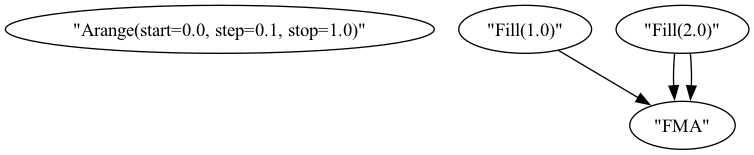
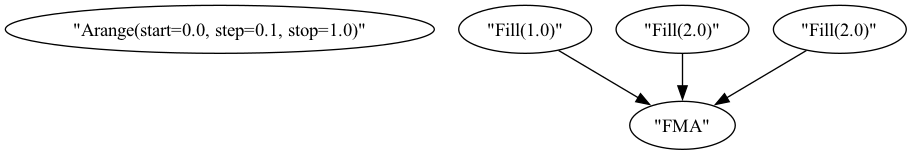
Automatic inplacing for binops

diff --git a/constensor-core/src/graph.rs b/constensor-core/src/graph.rs
@@ -1,5 +1,6 @@
 use std::{
     cell::Cell,
+    collections::HashMap,
     env,
     fmt::Display,
     fs,
@@ -72,10 +73,13 @@ impl<T: DType> Graph<T> {
                             )
                         }
                         Op::BinaryOp { operator, .. } => format!("BinOp({})", operator.as_c_op()),
+                        Op::InplaceBinaryOp { operator, .. } => {
+                            format!("InplaceBinOp({})", operator.as_c_op())
+                        }
                         Op::UnaryOp { operator, .. } => format!("UnOp({:?})", operator),
                         Op::FusedMulAdd { .. } => "FMA".to_string(),
                         // we already matched NoOp above
-                        _ => unreachable!(),
+                        Op::NoOp => unreachable!(),
                     };
                     let node = g.add_node(label);
                     idx_map.push(Some(node));
@@ -99,6 +103,14 @@ impl<T: DType> Graph<T> {
                         g.add_edge(src, dst, ());
                     }
                 }
+                Op::InplaceBinaryOp { l_id, r_id, .. } => {
+                    if let Some(src) = idx_map[usize::from(l_id)] {
+                        g.add_edge(src, dst, ());
+                    }
+                    if let Some(src) = idx_map[usize::from(r_id)] {
+                        g.add_edge(src, dst, ());
+                    }
+                }
                 Op::UnaryOp { v_id, .. } => {
                     if let Some(src) = idx_map[usize::from(v_id)] {
                         g.add_edge(src, dst, ());
@@ -112,7 +124,7 @@ impl<T: DType> Graph<T> {
                     }
                 }
                 // NoOp and Fill/Arange don’t create incoming edges
-                _ => {}
+                Op::NoOp | Op::Fill { .. } | Op::Arange { .. } => {}
             }
         }
 
@@ -202,6 +214,12 @@ impl<T: DType> Graph<T> {
                                     r_id,
                                     operator: _,
                                 } => vec![l_id, r_id],
+                                Op::InplaceBinaryOp {
+                                    l_id,
+                                    r_id,
+                                    out: _,
+                                    operator: _,
+                                } => vec![l_id, r_id],
                                 Op::Fill { v: _ } => vec![],
                                 Op::UnaryOp { v_id, operator: _ } => vec![v_id],
                                 Op::FusedMulAdd { a_id, b_id, c_id } => {
@@ -233,12 +251,111 @@ impl<T: DType> Graph<T> {
         *self.data.write().unwrap() = filtered_ops;
     }
 
+    /// Optimize by inplacing binary operations when inputs are not reused.
+    fn optimize_inplace_bin(&mut self) {
+        let ops = self.data.write().unwrap().clone();
+        let mut new_ops = ops.clone();
+        // Count how often each tensor id is used as an input.
+        let mut usage: HashMap<usize, usize> = HashMap::new();
+        for op in ops.iter() {
+            match op {
+                Op::BinaryOp { l_id, r_id, .. } => {
+                    *usage.entry(usize::from(l_id)).or_default() += 1;
+                    *usage.entry(usize::from(r_id)).or_default() += 1;
+                }
+                Op::InplaceBinaryOp { l_id, r_id, .. } => {
+                    *usage.entry(usize::from(l_id)).or_default() += 1;
+                    *usage.entry(usize::from(r_id)).or_default() += 1;
+                }
+                Op::UnaryOp { v_id, .. } => {
+                    *usage.entry(usize::from(v_id)).or_default() += 1;
+                }
+                Op::FusedMulAdd { a_id, b_id, c_id } => {
+                    *usage.entry(usize::from(a_id)).or_default() += 1;
+                    *usage.entry(usize::from(b_id)).or_default() += 1;
+                    *usage.entry(usize::from(c_id)).or_default() += 1;
+                }
+                Op::NoOp | Op::Fill { .. } | Op::Arange { .. } => {}
+            }
+        }
+        // Transform eligible BinaryOps into InplaceBinaryOps.
+        for (i, op) in ops.iter().enumerate() {
+            if let Op::BinaryOp {
+                l_id,
+                r_id,
+                operator,
+            } = op
+            {
+                let l_idx = usize::from(l_id);
+                let r_idx = usize::from(r_id);
+                let l_use = usage.get(&l_idx).copied().unwrap_or(0);
+                let r_use = usage.get(&r_idx).copied().unwrap_or(0);
+                if l_use == 1 || r_use == 1 {
+                    // Choose target for in-place: if both, default to lhs.
+                    let target = if r_use > l_use {
+                        r_id.clone()
+                    } else {
+                        l_id.clone()
+                    };
+                    // Replace with InplaceBinaryOp
+                    new_ops[i] = Op::InplaceBinaryOp {
+                        out: target.clone(),
+                        l_id: l_id.clone(),
+                        r_id: r_id.clone(),
+                        operator: *operator,
+                    };
+                    // Update all future uses of this op's result (index i) to use 'target'.
+                    for fut in new_ops.iter_mut().skip(i + 1) {
+                        match fut {
+                            Op::BinaryOp { l_id, r_id, .. } => {
+                                if usize::from(&*l_id) == i {
+                                    l_id.0.set(usize::from(&target));
+                                }
+                                if usize::from(&*r_id) == i {
+                                    r_id.0.set(usize::from(&target));
+                                }
+                            }
+                            Op::InplaceBinaryOp { l_id, r_id, .. } => {
+                                if usize::from(&*l_id) == i {
+                                    l_id.0.set(usize::from(&target));
+                                }
+                                if usize::from(&*r_id) == i {
+                                    r_id.0.set(usize::from(&target));
+                                }
+                            }
+                            Op::UnaryOp { v_id, .. } => {
+                                if usize::from(&*v_id) == i {
+                                    v_id.0.set(usize::from(&target));
+                                }
+                            }
+                            Op::FusedMulAdd { a_id, b_id, c_id } => {
+                                if usize::from(&*a_id) == i {
+                                    a_id.0.set(usize::from(&target));
+                                }
+                                if usize::from(&*b_id) == i {
+                                    b_id.0.set(usize::from(&target));
+                                }
+                                if usize::from(&*c_id) == i {
+                                    c_id.0.set(usize::from(&target));
+                                }
+                            }
+                            Op::NoOp | Op::Fill { .. } | Op::Arange { .. } => {}
+                        }
+                    }
+                }
+            }
+        }
+        // Commit the transformed op list.
+        *self.data.write().unwrap() = new_ops;
+    }
+
     /// Optimize this graph.
     ///
     /// Apply the following optimizations
     /// - Fuse mul,add
     pub fn optimize(&mut self) {
         self.optimize_fma();
+        self.optimize_inplace_bin();
     }
 }
 
@@ -303,6 +420,12 @@ pub enum Op<T: DType> {
         stop: T,
     },
     BinaryOp {
+        l_id: GraphTensorId,
+        r_id: GraphTensorId,
+        operator: BinaryOpType,
+    },
+    InplaceBinaryOp {
+        out: GraphTensorId,
         l_id: GraphTensorId,
         r_id: GraphTensorId,
         operator: BinaryOpType,

diff --git a/constensor-core/src/dtype.rs b/constensor-core/src/dtype.rs
@@ -230,6 +230,14 @@ pub trait SimdSupported {
     where
         Self: Sized;
 
+    fn binary_simd_op_inplace_lhs(a: &mut [Self], b: &[Self], op: BinaryOpType)
+    where
+        Self: Sized;
+
+    fn binary_simd_op_inplace_rhs(a: &[Self], b: &mut [Self], op: BinaryOpType)
+    where
+        Self: Sized;
+
     fn fma_op(a: &[Self], b: &[Self], c: &[Self], out: &mut Vec<Self>)
     where
         Self: Sized;
@@ -274,6 +282,86 @@ macro_rules! simd_supported {
             // Scalar fallback for remainder
             for i in n_blocks * Self::BLOCK_SIZE..len {
                 out[i] = scalar_op(a[i], b[i]);
+            }
+        }
+
+        fn binary_simd_op_inplace_lhs(a: &mut [Self], b: &[Self], op: BinaryOpType)
+        where
+            Self: Sized,
+        {
+            let len = a.len();
+            let n_blocks = len / Self::BLOCK_SIZE;
+
+            // Define SIMD and scalar operations based on the chosen operation
+            let simd_op = |l: std::simd::Simd<$t, { Self::BLOCK_SIZE }>,
+                           r: std::simd::Simd<$t, { Self::BLOCK_SIZE }>| {
+                match op {
+                    BinaryOpType::Add => l + r,
+                    BinaryOpType::Mul => l * r,
+                    BinaryOpType::Sub => l - r,
+                    BinaryOpType::Div => l / r,
+                }
+            };
+            let scalar_op = |l: Self, r: Self| {
+                match op {
+                    BinaryOpType::Add => l + r,
+                    BinaryOpType::Mul => l * r,
+                    BinaryOpType::Sub => l - r,
+                    BinaryOpType::Div => l / r,
+                }
+            };
+
+            // Vectorized loop
+            for i in 0..n_blocks {
+                let off = i * Self::BLOCK_SIZE;
+                let l_chunk = std::simd::Simd::<$t, { Self::BLOCK_SIZE }>::from_slice(&a[off..off + Self::BLOCK_SIZE]);
+                let r_chunk = std::simd::Simd::<$t, { Self::BLOCK_SIZE }>::from_slice(&b[off..off + Self::BLOCK_SIZE]);
+                let res = simd_op(l_chunk, r_chunk);
+                a[off..(off + Self::BLOCK_SIZE).min(len)].copy_from_slice(res.as_array());
+            }
+            // Scalar fallback for remainder
+            for i in n_blocks * Self::BLOCK_SIZE..len {
+                a[i] = scalar_op(a[i], b[i]);
+            }
+        }
+
+        fn binary_simd_op_inplace_rhs(a: &[Self], b: &mut [Self], op: BinaryOpType)
+        where
+            Self: Sized,
+        {
+            let len = a.len();
+            let n_blocks = len / Self::BLOCK_SIZE;
+
+            // Define SIMD and scalar operations based on the chosen operation
+            let simd_op = |l: std::simd::Simd<$t, { Self::BLOCK_SIZE }>,
+                           r: std::simd::Simd<$t, { Self::BLOCK_SIZE }>| {
+                match op {
+                    BinaryOpType::Add => l + r,
+                    BinaryOpType::Mul => l * r,
+                    BinaryOpType::Sub => l - r,
+                    BinaryOpType::Div => l / r,
+                }
+            };
+            let scalar_op = |l: Self, r: Self| {
+                match op {
+                    BinaryOpType::Add => l + r,
+                    BinaryOpType::Mul => l * r,
+                    BinaryOpType::Sub => l - r,
+                    BinaryOpType::Div => l / r,
+                }
+            };
+
+            // Vectorized loop
+            for i in 0..n_blocks {
+                let off = i * Self::BLOCK_SIZE;
+                let l_chunk = std::simd::Simd::<$t, { Self::BLOCK_SIZE }>::from_slice(&a[off..off + Self::BLOCK_SIZE]);
+                let r_chunk = std::simd::Simd::<$t, { Self::BLOCK_SIZE }>::from_slice(&b[off..off + Self::BLOCK_SIZE]);
+                let res = simd_op(l_chunk, r_chunk);
+                b[off..(off + Self::BLOCK_SIZE).min(len)].copy_from_slice(res.as_array());
+            }
+            // Scalar fallback for remainder
+            for i in n_blocks * Self::BLOCK_SIZE..len {
+                b[i] = scalar_op(a[i], b[i]);
             }
         }
     };
@@ -344,6 +432,36 @@ macro_rules! simd_supported {
                         BinaryOpType::Mul => *lhs * rhs,
                         BinaryOpType::Sub => *lhs - rhs,
                         BinaryOpType::Div => *lhs / rhs,
+                    });
+            }
+
+            fn binary_simd_op_inplace_lhs(a: &mut [Self], b: &[Self], op: BinaryOpType)
+            where
+                Self: Sized,
+            {
+                use rayon::prelude::*;
+
+                a.par_iter_mut().zip(b)
+                    .for_each(|(lhs, rhs)| *lhs = match op {
+                        BinaryOpType::Add => *lhs + rhs,
+                        BinaryOpType::Mul => *lhs * rhs,
+                        BinaryOpType::Sub => *lhs - rhs,
+                        BinaryOpType::Div => *lhs / rhs,
+                    });
+            }
+
+            fn binary_simd_op_inplace_rhs(a: &[Self], b: &mut[Self], op: BinaryOpType)
+            where
+                Self: Sized,
+            {
+                use rayon::prelude::*;
+
+                b.par_iter_mut().zip(a)
+                    .for_each(|(rhs, lhs)| *rhs = match op {
+                        BinaryOpType::Add => *lhs + *rhs,
+                        BinaryOpType::Mul => *lhs * *rhs,
+                        BinaryOpType::Sub => *lhs - *rhs,
+                        BinaryOpType::Div => *lhs / *rhs,
                     });
             }
 

diff --git a/constensor-core/src/cpu_storage/mod.rs b/constensor-core/src/cpu_storage/mod.rs
@@ -52,6 +52,12 @@ impl BackendDevice for CpuDevice {
                         dep_graph.add_edge(l_idx, idx, ());
                         dep_graph.add_edge(r_idx, idx, ());
                     }
+                    Op::InplaceBinaryOp { l_id, r_id, .. } => {
+                        let l_idx = <&GraphTensorId as Into<usize>>::into(l_id);
+                        let r_idx = <&GraphTensorId as Into<usize>>::into(r_id);
+                        dep_graph.add_edge(l_idx, idx, ());
+                        dep_graph.add_edge(r_idx, idx, ());
+                    }
                     Op::UnaryOp { v_id, .. } => {
                         let v_idx = <&GraphTensorId as Into<usize>>::into(v_id);
                         dep_graph.add_edge(v_idx, idx, ());
@@ -64,7 +70,8 @@ impl BackendDevice for CpuDevice {
                         dep_graph.add_edge(b_idx, idx, ());
                         dep_graph.add_edge(c_idx, idx, ());
                     }
-                    _ => {}
+                    // NoOp and Fill/Arange don’t create incoming edges
+                    Op::NoOp | Op::Fill { .. } | Op::Arange { .. } => {}
                 }
             }
 
@@ -89,8 +96,29 @@ impl BackendDevice for CpuDevice {
                         let l_buf = results[l_idx].as_ref().unwrap();
                         let r_buf = results[r_idx].as_ref().unwrap();
                         let mut out = pool.borrow_mut().get_buffer(S::element_count());
-                        T::binary_simd_op(&*l_buf, &*r_buf, &mut out, *operator);
+                        T::binary_simd_op(l_buf, r_buf, &mut out, *operator);
                         PooledBuffer::new(out, pool.clone())
+                    }
+                    Op::InplaceBinaryOp {
+                        out,
+                        l_id,
+                        r_id,
+                        operator,
+                    } => {
+                        let l_idx = <&GraphTensorId as Into<usize>>::into(l_id);
+                        let r_idx = <&GraphTensorId as Into<usize>>::into(r_id);
+                        let o_idx = <&GraphTensorId as Into<usize>>::into(out);
+                        if o_idx == l_idx {
+                            let mut l_buf = results[l_idx].take().unwrap();
+                            let r_buf = results[r_idx].as_ref().unwrap();
+                            T::binary_simd_op_inplace_lhs(&mut l_buf, r_buf, *operator);
+                            l_buf
+                        } else {
+                            let mut r_buf = results[r_idx].take().unwrap();
+                            let l_buf = results[l_idx].as_ref().unwrap();
+                            T::binary_simd_op_inplace_rhs(l_buf, &mut r_buf, *operator);
+                            r_buf
+                        }
                     }
                     Op::Fill { v } => {
                         let mut buf = pool.borrow_mut().get_empty_buffer(S::element_count());

diff --git a/constensor-core/examples/hello_world/main.rs b/constensor-core/examples/hello_world/main.rs
@@ -6,13 +6,14 @@ fn main() {
     dbg!(&arange.to_tensor().unwrap().data());
     let x = GraphTensor::<R2<3, 4>, f32, Cpu>::fill(&mut graph, 1.0);
     let y = GraphTensor::<R2<3, 4>, f32, Cpu>::fill(&mut graph, 2.0);
-    let z = y.clone() + y * x;
+    let z = GraphTensor::<R2<3, 4>, f32, Cpu>::fill(&mut graph, 2.0);
+    let res = y * x + z;
 
     graph.optimize();
 
     graph.visualize("graph.png").unwrap();
 
-    let tensor: Tensor<R2<3, 4>, f32, Cpu> = z.to_tensor().unwrap();
+    let tensor: Tensor<R2<3, 4>, f32, Cpu> = res.to_tensor().unwrap();
 
     assert_eq!(tensor.data().unwrap().to_vec(), vec![vec![4.0; 4]; 3],);
 }
